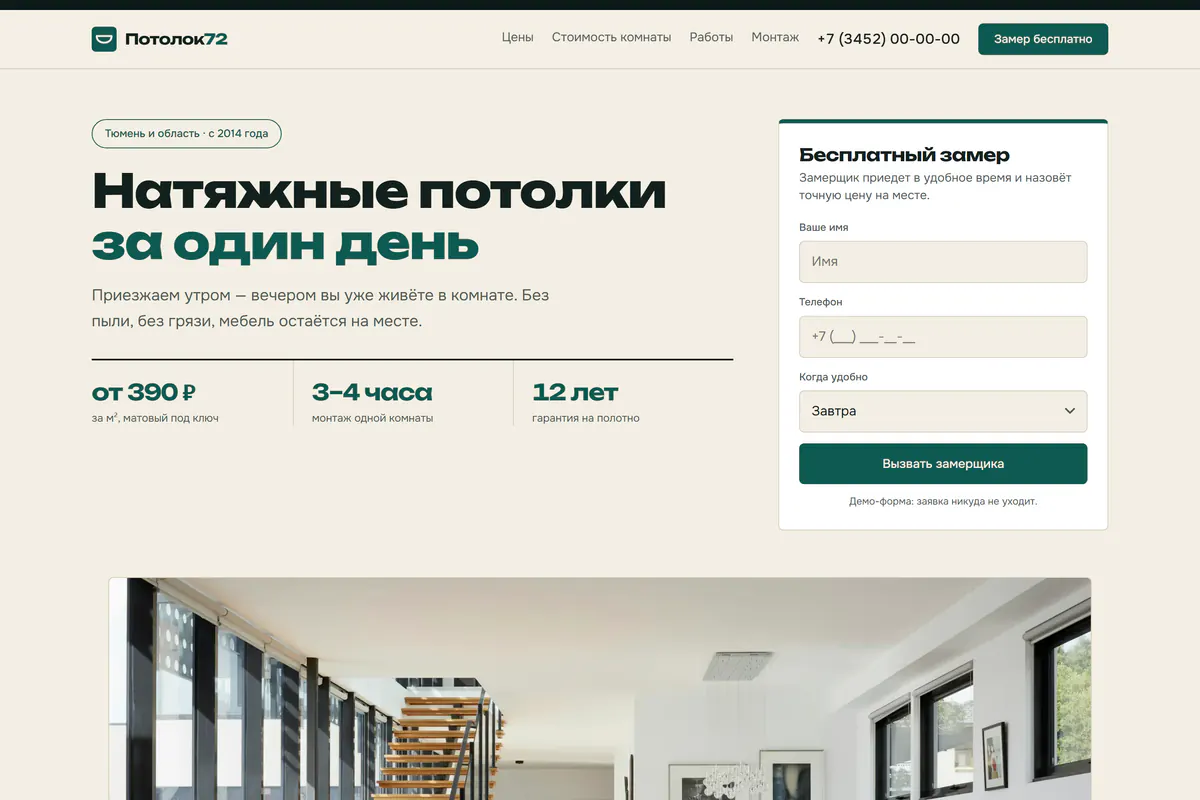
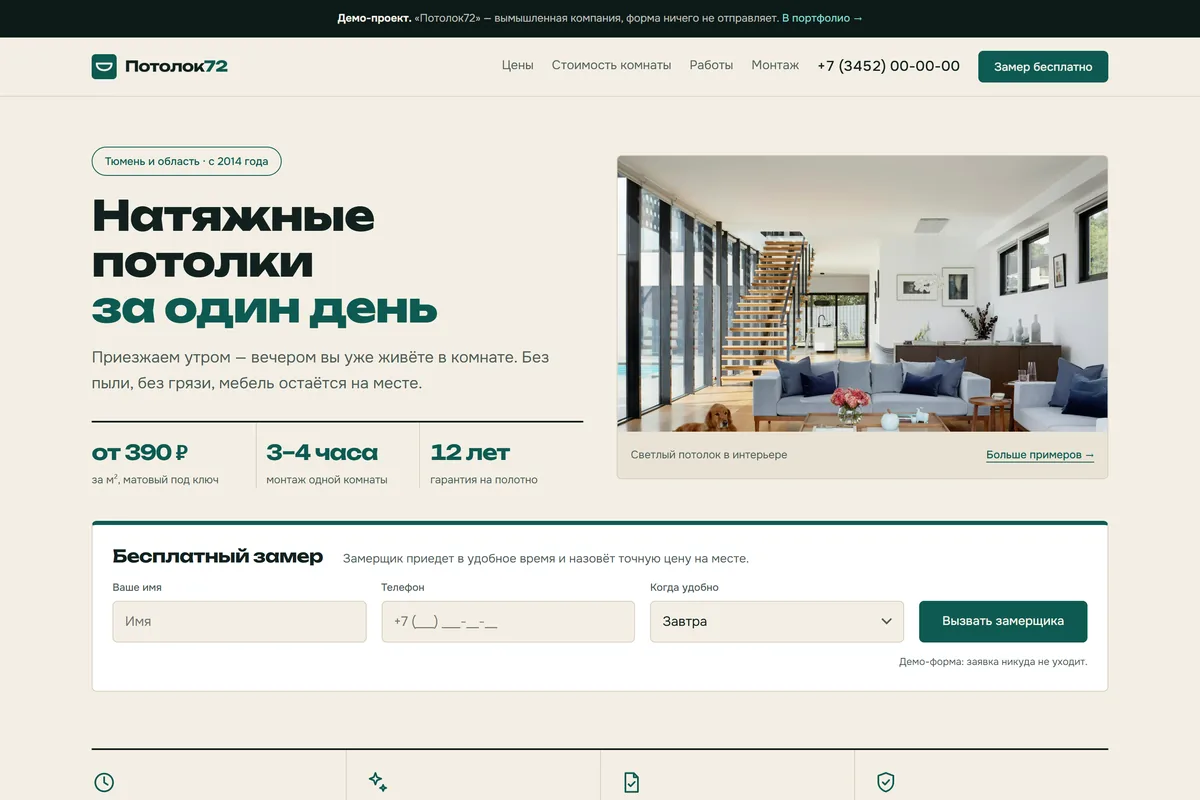
Fix Potolok72 hero layout and refresh portfolio previews

diff --git a/demo/potolki/style.css b/demo/potolki/style.css
@@ -96,38 +96,24 @@ h3{font-size:clamp(17px,1.4vw,20px);font-weight:700;letter-spacing:-.015em}
 
 /* --- hero --- */
 .hero{position:relative;padding:clamp(34px,4.4vw,60px) 0 0;background:var(--cream)}
-.hero__in{display:grid;grid-template-columns:1fr 396px;gap:clamp(26px,4vw,54px);align-items:start;padding-bottom:clamp(34px,4.4vw,56px)}
+.hero__in{display:grid;grid-template-columns:repeat(2,minmax(0,1fr));gap:clamp(24px,3.2vw,40px);align-items:center}
+.hero h1{font-size:clamp(31px,4vw,50px)}
+.hero h1 .blue{display:block}
 .pill{
   display:inline-block;border:1px solid var(--teal);color:var(--teal);border-radius:100px;
   padding:6px 15px;font-size:13px;font-weight:500;margin-bottom:20px;
 }
 .subhead{margin-top:18px;font-size:clamp(16.5px,1.35vw,19px);color:var(--tx-mut);max-width:30em}
-.hero__price{display:flex;gap:0;flex-wrap:wrap;margin-top:30px;border-top:2px solid var(--ink)}
-.hero__price div{display:flex;flex-direction:column;gap:1px;padding:16px 22px 0 0;flex:1;min-width:150px}
-.hero__price div + div{border-left:1px solid var(--line);padding-left:22px}
-.hero__price b{font-family:var(--head);font-weight:700;font-size:clamp(21px,2.1vw,27px);letter-spacing:-.035em;color:var(--teal);font-variant-numeric:tabular-nums}
+.hero__price{display:grid;grid-template-columns:repeat(3,minmax(0,1fr));margin-top:30px;border-top:2px solid var(--ink)}
+.hero__price div{display:flex;flex-direction:column;gap:4px;padding:16px 12px 0 0}
+.hero__price div + div{border-left:1px solid var(--line);padding-left:12px}
+.hero__price b{font-family:var(--head);font-weight:700;font-size:clamp(18px,1.9vw,25px);letter-spacing:-.035em;color:var(--teal);font-variant-numeric:tabular-nums;white-space:nowrap}
 .hero__price span{font-size:13px;color:var(--tx-mut);line-height:1.3;max-width:15em}
-.hero__img{max-width:1220px;margin:0 auto;padding:0 20px}
-.hero__img img{width:100%;aspect-ratio:24/9;object-fit:cover;object-position:50% 28%;border-radius:var(--r) var(--r) 0 0;border:1px solid var(--line);border-bottom:0}
-
-/* После демо-плашки шапка и hero вместе занимают один экран. */
-@media (min-width:901px){
-  .hero{
-    height:calc(100vh - 71px);height:calc(100svh - 71px);
-    display:flex;flex-direction:column;overflow:hidden;
-    padding:clamp(18px,3.4vh,42px) 0 0;
-  }
-  .hero__in{flex:none;padding-bottom:clamp(18px,3vh,34px)}
-  .hero__img{width:min(1220px,100%);flex:1;min-height:90px}
-  .hero__img img{height:100%;aspect-ratio:auto}
-}
-
-@media (min-width:901px) and (max-height:760px){
-  .pill{margin-bottom:12px;padding-block:4px}
-  .subhead{margin-top:12px}
-  .hero__price{margin-top:18px}
-  .hero__price div{padding-top:10px}
-}
+/* Фото сохраняет весь кадр; высота hero определяется содержимым. */
+.hero__img{margin:0;min-width:0;border:1px solid var(--line);border-radius:var(--r);overflow:hidden;background:var(--cream-2)}
+.hero__img img{width:100%;height:auto}
+.hero__img figcaption{display:flex;align-items:center;justify-content:space-between;flex-wrap:wrap;gap:0 16px;padding:6px 16px;font-size:13px;color:var(--tx-mut)}
+.hero__img figcaption a{display:inline-flex;align-items:center;min-height:44px;color:var(--teal);font-weight:500;text-underline-offset:4px}
 
 /* --- форма-карточка --- */
 .qform{position:relative;background:var(--white);border:1px solid var(--line);border-top:5px solid var(--teal);border-radius:var(--r);padding:26px 24px 24px}
@@ -152,6 +138,15 @@ h3{font-size:clamp(17px,1.4vw,20px);font-weight:700;letter-spacing:-.015em}
 .qform__ok b{font-family:var(--head);font-weight:700;font-size:19px;letter-spacing:-.02em}
 .qform__ok p{color:var(--tx-mut);font-size:15px}
 .qform__ok i{font-style:normal;font-weight:600;color:var(--tx);white-space:nowrap}
+
+.qform--quick{grid-column:1/-1;display:grid;grid-template-columns:repeat(3,minmax(0,1fr)) auto;gap:14px 18px;align-items:start}
+.qform__head{grid-column:1/-1;display:flex;align-items:baseline;gap:24px}
+.qform__head .qform__t{flex:none;margin:0}
+.qform__head .qform__s{margin:0;max-width:38em}
+.qform--quick .fld{margin:0}
+.qform--quick .err{margin:6px 0 0}
+.qform--quick > .btn{margin-top:26px;min-height:50px}
+.qform--quick .qform__note{grid-column:1/-1;margin:0;text-align:right}
 
 /* --- плитки преимуществ --- */
 .tiles{padding:clamp(40px,5vw,68px) 0 0}
@@ -260,7 +255,6 @@ h3{font-size:clamp(17px,1.4vw,20px);font-weight:700;letter-spacing:-.015em}
 
 /* --- адаптив --- */
 @media (max-width:1080px){
-  .hero__in{grid-template-columns:1fr 350px}
   .price,.rooms{grid-template-columns:repeat(2,1fr)}
   .tiles__in{grid-template-columns:repeat(2,1fr)}
   .tile:nth-child(3){border-left:0;padding-left:0}
@@ -271,6 +265,9 @@ h3{font-size:clamp(17px,1.4vw,20px);font-weight:700;letter-spacing:-.015em}
   .nav,.hdr .tel,.hdr .btn{display:none}
   .burger{display:block}
   .hero__in,.how,.two,.cta__in{grid-template-columns:1fr}
+  .qform--quick{grid-template-columns:repeat(2,minmax(0,1fr))}
+  .qform__head{display:block}
+  .qform__head .qform__t{margin-bottom:6px}
   .gal{grid-template-columns:repeat(2,1fr)}
   .gal__i--big{grid-column:span 2;grid-row:auto}
   .gal__i--big img{aspect-ratio:2/1}
@@ -284,21 +281,15 @@ h3{font-size:clamp(17px,1.4vw,20px);font-weight:700;letter-spacing:-.015em}
   .tile + .tile{border-top:1px solid var(--line);padding-top:20px;margin-top:0}
   .gal__i--big{grid-column:auto}
   .gal__i--big img{aspect-ratio:3/2}
-  .hero__price div,.hero__price div + div{border-left:0;padding-left:0;border-top:1px solid var(--line);padding-top:14px}
-  .hero__price div:first-child{border-top:0}
-  .hero__img img{aspect-ratio:16/9}
+  .hero__price{grid-template-columns:1fr 1fr}
+  .hero__price div{padding-top:14px}
+  .hero__price div:nth-child(3){grid-column:1/-1;border-left:0;border-top:1px solid var(--line);margin-top:14px;padding-left:0}
+  .qform--quick{grid-template-columns:1fr}
+  .qform--quick > .btn{margin-top:0}
+  .qform--quick .qform__note{text-align:center}
   .sticky-cta{display:block}
   .ftr{padding-bottom:86px}
   .qform{padding:20px 17px}
-}
-
-@media (min-width:901px) and (max-height:760px){
-  .qform{padding:16px 20px}
-  .qform__s{margin-bottom:10px}
-  .fld{margin-bottom:8px}
-  .fld input,.fld select{padding-block:9px}
-  .qform__note{margin-top:7px}
-  .hero__img{min-height:60px}
 }
 
 @media (prefers-reduced-motion:reduce){

diff --git a/demo/potolki/index.html b/demo/potolki/index.html
@@ -14,7 +14,7 @@
 <link rel="preload" as="font" type="font/woff2" href="fonts/unbounded-800-cyrillic.woff2" crossorigin>
 <link rel="preload" as="font" type="font/woff2" href="fonts/unbounded-700-cyrillic.woff2" crossorigin>
 <link rel="preload" as="font" type="font/woff2" href="fonts/onest-400-cyrillic.woff2" crossorigin>
-<link rel="preload" as="image" href="img/hero-1400.webp" imagesrcset="img/hero-640.webp 640w, img/hero-820.webp 820w, img/hero-1000.webp 1000w, img/hero-1400.webp 1400w, img/hero-1900.webp 1900w, img/hero-2440.webp 2440w" imagesizes="(max-width:1220px) calc(100vw - 40px), 1180px" fetchpriority="high">
+<link rel="preload" as="image" href="img/hero-1400.webp" imagesrcset="img/hero-640.webp 640w, img/hero-820.webp 820w, img/hero-1000.webp 1000w, img/hero-1400.webp 1400w, img/hero-1900.webp 1900w, img/hero-2440.webp 2440w" imagesizes="(max-width:900px) calc(100vw - 40px), (max-width:1260px) calc((100vw - 80px) / 2), 590px" fetchpriority="high">
 <script>
 /* Стартовые состояния анимаций ставим до первой отрисовки. Если скрипт сайта
    не доедет — через 1,2 с после загрузки показываем всё принудительно. */
@@ -70,19 +70,30 @@
       </div>
     </div>
 
-    <form class="qform" id="quickForm" novalidate>
-      <h2 class="qform__t">Бесплатный замер</h2>
-      <p class="qform__s">Замерщик приедет в удобное время и назовёт точную цену на месте.</p>
-      <label class="fld">
-        <span>Ваше имя</span>
-        <input type="text" name="name" placeholder="Имя" autocomplete="name" required>
-      </label>
-      <span class="err" data-err="name"></span>
-      <label class="fld">
-        <span>Телефон</span>
-        <input type="tel" name="phone" inputmode="tel" placeholder="+7 (___) ___-__-__" autocomplete="tel" required>
-      </label>
-      <span class="err" data-err="phone"></span>
+    <figure class="hero__img">
+      <img src="img/hero-1400.webp" srcset="img/hero-640.webp 640w, img/hero-820.webp 820w, img/hero-1000.webp 1000w, img/hero-1400.webp 1400w, img/hero-1900.webp 1900w, img/hero-2440.webp 2440w" sizes="(max-width:900px) calc(100vw - 40px), (max-width:1260px) calc((100vw - 80px) / 2), 590px" alt="Светлая гостиная с ровным белым потолком, панорамными окнами и деревянной лестницей" width="1400" height="788" fetchpriority="high">
+      <figcaption><span>Светлый потолок в интерьере</span><a href="#gallery">Больше примеров →</a></figcaption>
+    </figure>
+
+    <form class="qform qform--quick" id="quickForm" novalidate>
+      <div class="qform__head">
+        <h2 class="qform__t">Бесплатный замер</h2>
+        <p class="qform__s">Замерщик приедет в удобное время и назовёт точную цену на месте.</p>
+      </div>
+      <div class="qform__field">
+        <label class="fld">
+          <span>Ваше имя</span>
+          <input type="text" name="name" placeholder="Имя" autocomplete="name" required>
+        </label>
+        <span class="err" data-err="name"></span>
+      </div>
+      <div class="qform__field">
+        <label class="fld">
+          <span>Телефон</span>
+          <input type="tel" name="phone" inputmode="tel" placeholder="+7 (___) ___-__-__" autocomplete="tel" required>
+        </label>
+        <span class="err" data-err="phone"></span>
+      </div>
       <label class="fld">
         <span>Когда удобно</span>
         <select name="when">
@@ -102,7 +113,6 @@
       </div>
     </form>
   </div>
-  <div class="hero__img" data-rv="img"><img src="img/hero-1400.webp" srcset="img/hero-640.webp 640w, img/hero-820.webp 820w, img/hero-1000.webp 1000w, img/hero-1400.webp 1400w, img/hero-1900.webp 1900w, img/hero-2440.webp 2440w" sizes="(max-width:1220px) calc(100vw - 40px), 1180px" alt="Просторная светлая гостиная с ровным белым натяжным потолком и встроенными светильниками" width="1400" height="788" fetchpriority="high"></div>
 </section>
 
 <!-- ПРЕИМУЩЕСТВА -->

diff --git a/AGENTS.md b/AGENTS.md
@@ -1,0 +1,6 @@
+# Рабочий процесс
+
+По указанию владельца проекта готовые изменения после необходимых проверок
+нужно автоматически коммитить и пушить в GitHub без отдельного подтверждения.
+В коммит включать файлы текущей задачи; посторонние незавершённые изменения
+оставлять нетронутыми. Не использовать force push без явного указания.
